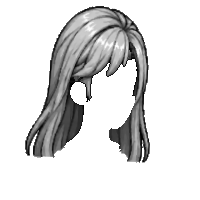
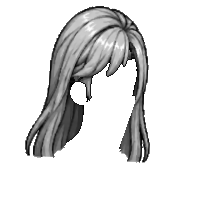
Portraits: finish step that blends the parts into one portrait
finish.py compose(): skin-coloured eye/mouth lines, warm eye whites with lid shadow, brow
underside, soft hair edge + hair shadow on skin, collar contact shadow, unified outer outline
with selective seams, shared colour grade. preview_finish.png shows before/after.
Assets: hair cut from the notch under the chin; leftover template outline strokes removed
from the chin/throat of all 12 outfit layers (clean_body_necks.py).

Claude-Session: https://claude.ai/code/session_01M8ejkLTav7LEMdtajuWjkN

Changed region(s): [[0.54, 0.54, 0.66, 0.72]]

diff --git a/art_source/new_art/portraits/finish.py b/art_source/new_art/portraits/finish.py
@@ -1,0 +1,151 @@
+"""Portrait finish step: put the layers together and blend them into one painted portrait.
+
+The parts are drawn separately (head, outfit, eyes, brows, mouth, hair), so stacked as-is they look pasted on.
+compose() stacks them in the game's order and, with finish=True, runs the passes below. Everything works on the
+layers' own value maps, so a shadow on skin is the same skin ramp one step darker (correct hue for every tone).
+The game will run the same passes once when a hero's portrait is built and cache the result.
+
+  1 lines   eye, lash and mouth lines take the skin's darkest shade instead of fixed near-black
+  2 whites  eye whites (and teeth) become a warm off-white from the skin ramp; 1-px shadow under the upper lid
+  3 brows   darker hair shade on the lower edge of thick brows
+  4 hair    hair edge on skin uses the hair's own dark shade; hair casts a 1-2 px shadow onto the skin
+  5 neck    contact shadow on the skin just above the collar / scarf / armour
+  6 outline one outer silhouette outline (dark version of the fill colour); seams where the outfit meets skin or
+            hair use a dark shade of the outfit's own colour instead of black
+  7 grade   shared light: soft warm light from the upper left, shadows pulled toward one cool hue
+"""
+import os, json, numpy as np
+from PIL import Image
+from scipy import ndimage as ndi
+
+HERE = os.path.dirname(os.path.abspath(__file__))
+ROOT = os.path.join(HERE, '..', '..', '..')
+PAL = json.load(open(os.path.join(ROOT, 'portraits', 'palettes.json')))
+LINE, WHITE = (30, 22, 26), (250, 248, 246)
+N4 = np.array([[0, 1, 0], [1, 1, 1], [0, 1, 0]], bool)
+
+
+def hx(q): return [int(q[i:i + 2], 16) for i in (1, 3, 5)]
+
+
+def ramp_rgb(ramp, v):
+    """Value map (0-255, any shape) -> RGB along the 5-colour ramp, same as the game's tint."""
+    rr = np.array([hx(q) for q in ramp], float); t = np.clip(v, 0, 255) / 255 * (len(rr) - 1)
+    lo = np.floor(t).astype(int).clip(0, len(rr) - 2); f = (t - lo)[..., None]
+    return rr[lo] * (1 - f) + rr[lo + 1] * f
+
+
+def load(name):
+    p = os.path.join(HERE, name)
+    return np.asarray(Image.open(p).convert('RGBA')).astype(float) if os.path.exists(p) else None
+
+
+def is_col(a, c, tol=3): return (np.abs(a[..., :3] - c).max(-1) <= tol) & (a[..., 3] > 0)
+
+
+def shift(m, dy, dx):
+    o = np.zeros_like(m)
+    ys, yd = (slice(0, 200 - dy), slice(dy, 200)) if dy >= 0 else (slice(-dy, 200), slice(0, 200 + dy))
+    xs, xd = (slice(0, 200 - dx), slice(dx, 200)) if dx >= 0 else (slice(-dx, 200), slice(0, 200 + dx))
+    o[yd, xd] = m[ys, xs]; return o
+
+
+def compose(sex, cls, skin, hair_ramp, eye_ramp, eyes, expr, hair, finish=True):
+    """skin/hair_ramp/eye_ramp: palette names. eyes/expr/hair: style ids. Returns a 200x200 RGBA uint8 array."""
+    S, Hr, E = PAL['skin'][skin], PAL['hair'][hair_ramp], PAL['eyes'][eye_ramp]
+    head, bskin, body = load(f'{sex}_head_skin.png'), load(f'{sex}_body_{cls}_skin.png'), load(f'{sex}_body_{cls}_fixed.png')
+    efix, iris = load(f'{sex}_eyes_{eyes}_fixed.png'), load(f'{sex}_eyes_{eyes}_iris.png')
+    brow, mouth, hl = load(f'{sex}_brows_{expr}.png'), load(f'{sex}_mouth_{expr}.png'), load(f'{sex}_hair_{hair}.png')
+
+    rgb = np.zeros((200, 200, 3)); A = np.zeros((200, 200), bool)
+    top = np.zeros((200, 200), 'U5')                       # which layer is on top: skin, body, eyes, iris, brow, mouth, hair
+    sv = np.zeros((200, 200))                               # skin value map under everything
+    bv = np.zeros((200, 200)); hv = np.zeros((200, 200))    # brow / hair value maps
+    def put(layer, colour, tag):
+        m = layer[..., 3] > 127
+        rgb[m] = colour[m]; A[m] = True; top[m] = tag
+        return m
+    for sk in (head, bskin):
+        if sk is not None:
+            m = put(sk, ramp_rgb(S, sk[..., 0]), 'skin'); sv[m] = sk[..., 0][m]
+    put(body, body[..., :3], 'body')
+    put(efix, efix[..., :3], 'eyes'); put(iris, ramp_rgb(E, iris[..., 0]), 'iris')
+    m = put(brow, ramp_rgb(Hr, brow[..., 0]), 'brow'); bv[m] = brow[..., 0][m]
+    put(mouth, mouth[..., :3], 'mouth')
+    m = put(hl, ramp_rgb(Hr, hl[..., 0]), 'hair'); hv[m] = hl[..., 0][m]
+    if not finish:
+        return np.dstack([rgb, A * 255]).astype(np.uint8)
+
+    skin_m, hair_m, body_m = top == 'skin', top == 'hair', top == 'body'
+    sk = lambda v: ramp_rgb(S, v)
+
+    # 1 lines -> darkest skin shade (a touch above the outline's own value so they still read on deep skin)
+    line_c = sk(np.full((1,), 14.0))[0]
+    for lay, tag in ((efix, 'eyes'), (mouth, 'mouth')):
+        m = is_col(lay, LINE, 12) & (top == tag); rgb[m] = line_c
+    # 2 whites -> warm off-white from the lightest skin colour; shadow under the upper lid
+    white_c = 0.78 * np.array([247, 244, 240.]) + 0.22 * np.array(hx(S[4]))
+    lid_c = 0.55 * white_c + 0.45 * np.array(hx(S[3]))
+    wm = is_col(efix, WHITE, 6) & (top == 'eyes'); rgb[wm] = white_c
+    lid = wm & shift(is_col(efix, LINE, 12), 1, 0); rgb[lid] = lid_c
+    tm = is_col(mouth, WHITE, 6) & (top == 'mouth'); rgb[tm] = white_c
+    # 3 brows: lower edge one hair shade darker where the brow is 2+ px thick
+    bm = top == 'brow'
+    low = bm & ~shift(bm, -1, 0) & shift(bm, 1, 0)
+    rgb[low] = ramp_rgb(Hr, bv[low] * 0.55)
+
+    # 4 hair on skin: edge in the hair's own dark shade; cast shadow (light from upper left) + contact shadow
+    near_skin = ndi.binary_dilation(skin_m, N4)
+    edge = hair_m & near_skin
+    rgb[edge] = ramp_rgb(Hr, np.maximum(hv[edge], 40))
+    cast = skin_m & (shift(hair_m, 1, 1) | shift(hair_m, 2, 1) | shift(hair_m, 2, 2))
+    touch = skin_m & ndi.binary_dilation(hair_m, N4)
+    # 5 neck: contact shadow on skin right above (and beside) the outfit
+    collar1 = skin_m & (shift(body_m, -1, 0) | ndi.binary_dilation(body_m, N4))
+    collar2 = skin_m & shift(body_m, -2, 0) & ~collar1
+    dark = np.zeros((200, 200))
+    dark[collar2] = 22; dark[collar1] = 40; dark[cast] = np.maximum(dark[cast], 34); dark[touch] = np.maximum(dark[touch], 44)
+    # keep the drawn outline pixels (already the darkest value) as they are
+    sh = skin_m & (dark > 0) & (sv > 60)
+    rgb[sh] = sk(np.maximum(sv[sh] - dark[sh], 45))
+
+    # 6 outline: seams of the outfit against skin / hair -> dark outfit colour; outer silhouette -> dark fill colour
+    lum = rgb @ [0.3, 0.59, 0.11]
+    body_fill = body_m & (lum > 70)
+    if body_fill.any():
+        idx = ndi.distance_transform_edt(~body_fill, return_distances=False, return_indices=True)
+        seam = body_m & (lum <= 70) & ndi.binary_dilation(skin_m | hair_m, N4)
+        rgb[seam] = rgb[idx[0][seam], idx[1][seam]] * 0.42
+    outer = A & ~ndi.binary_erosion(A, N4)
+    fill = A & ~outer & (lum > 70)
+    idx = ndi.distance_transform_edt(~fill, return_distances=False, return_indices=True)
+    rgb[outer] = rgb[idx[0][outer], idx[1][outer]] * 0.24 + np.array([18, 13, 24.]) * 0.6
+
+    # 7 grade: warm light from the upper left, shadows toward one cool hue
+    yy, xx = np.mgrid[:200, :200]
+    light = 1.04 - 0.08 * (xx + yy) / 300
+    lum = (rgb @ [0.3, 0.59, 0.11]) / 255
+    rgb = rgb * light[..., None]
+    rgb = rgb + ((1 - lum) ** 2 * 0.10)[..., None] * (np.array([58, 48, 92.]) - rgb)
+    rgb = rgb + (lum ** 2 * 0.07)[..., None] * (np.array([255, 238, 212.]) - rgb)
+    return np.dstack([np.clip(rgb, 0, 255) * A[..., None], A * 255]).astype(np.uint8)
+
+
+if __name__ == '__main__':
+    # before / after sheet: per class, male then female, unfinished and finished side by side
+    import random
+    rng = random.Random(11)
+    def styles(prefix, suffix='.png'):
+        return sorted(f[len(prefix):-len(suffix)] for f in os.listdir(HERE) if f.startswith(prefix) and f.endswith(suffix))
+    classes = ['soldier', 'archer', 'cleric', 'mage', 'warrior', 'rogue']
+    sheet = Image.new('RGBA', (200 * 6, 200 * 4), (52, 56, 66, 255))
+    for r, sex in enumerate('mf'):
+        for c, cls in enumerate(classes):
+            args = (sex, cls, rng.choice(list(PAL['skin'])), rng.choice(list(PAL['hair'])), rng.choice(list(PAL['eyes'])),
+                    rng.choice(styles(f'{sex}_eyes_', '_fixed.png')), rng.choice(['neutral', 'smile', 'stern', 'grin', 'sleepy', 'worried']),
+                    rng.choice(styles(f'{sex}_hair_')))
+            for k, fin in enumerate((False, True)):
+                im = Image.fromarray(compose(*args, finish=fin))
+                sheet.alpha_composite(im, (c * 200, (r * 2 + k) * 200))
+    sheet.save(os.path.join(HERE, 'preview_finish.png'))
+    print('preview_finish.png')

diff --git a/art_source/new_art/portraits/preview_full.py b/art_source/new_art/portraits/preview_full.py
@@ -1,35 +1,18 @@
-"""Assemble complete portraits from every new layer (head, body, eyes, brows, mouth, hair) with random looks.
+"""Assemble complete portraits from every new layer (head, body, eyes, brows, mouth, hair) with random looks,
+finished with finish.py (the blend pass the game runs when it builds a portrait).
 Layer order, back to front: head skin, body skin, body, eyes fixed, iris, brows, mouth, hair.
 Writes preview_full.png (2 rows: male, female; one column per class)."""
-import os, json, random, numpy as np
+import os, random
 from PIL import Image
-HERE = os.path.dirname(os.path.abspath(__file__)); ROOT = os.path.join(HERE, '..', '..', '..')
-pal = json.load(open(os.path.join(ROOT, 'portraits', 'palettes.json')))
-hx = lambda q: [int(q[i:i + 2], 16) for i in (1, 3, 5)]
-def tint(path, ramp):
-    img = np.asarray(Image.open(path).convert('RGBA'))
-    rr = np.array([hx(q) for q in ramp], float); t = img[..., 0] / 255 * (len(rr) - 1)
-    l = np.floor(t).astype(int).clip(0, len(rr) - 2); f = (t - l)[..., None]
-    return Image.fromarray(np.dstack([rr[l] * (1 - f) + rr[l + 1] * f, img[..., 3]]).astype(np.uint8))
+from finish import compose, PAL, HERE
 def styles(prefix, suffix='.png'):
     return sorted(f[len(prefix):-len(suffix)] for f in os.listdir(HERE) if f.startswith(prefix) and f.endswith(suffix))
 rng = random.Random(7)
-P = lambda n: os.path.join(HERE, n)
 sheet = Image.new('RGBA', (200 * 6, 400), (52, 56, 66, 255))
 for row, sex in enumerate('mf'):
     for col, cls in enumerate(['soldier', 'archer', 'cleric', 'mage', 'warrior', 'rogue']):
-        skin = rng.choice(list(pal['skin'].values())); hair = rng.choice(list(pal['hair'].values()))
-        eye = rng.choice(list(pal['eyes'].values()))
-        ey = rng.choice(styles(f'{sex}_eyes_', '_fixed.png')); hs = rng.choice(styles(f'{sex}_hair_'))
-        ex = rng.choice(['neutral', 'smile', 'stern', 'grin', 'sleepy', 'worried'])
-        c = Image.new('RGBA', (200, 200), (52, 56, 66, 255))
-        c.alpha_composite(tint(P(f'{sex}_head_skin.png'), skin))
-        if os.path.exists(P(f'{sex}_body_{cls}_skin.png')): c.alpha_composite(tint(P(f'{sex}_body_{cls}_skin.png'), skin))
-        c.alpha_composite(Image.open(P(f'{sex}_body_{cls}_fixed.png')).convert('RGBA'))
-        c.alpha_composite(Image.open(P(f'{sex}_eyes_{ey}_fixed.png')).convert('RGBA'))
-        c.alpha_composite(tint(P(f'{sex}_eyes_{ey}_iris.png'), eye))
-        c.alpha_composite(tint(P(f'{sex}_brows_{ex}.png'), hair))
-        c.alpha_composite(Image.open(P(f'{sex}_mouth_{ex}.png')).convert('RGBA'))
-        c.alpha_composite(tint(P(f'{sex}_hair_{hs}.png'), hair))
-        sheet.paste(c, (col * 200, row * 200))
-sheet.save(P('preview_full.png'))
+        im = compose(sex, cls, rng.choice(list(PAL['skin'])), rng.choice(list(PAL['hair'])), rng.choice(list(PAL['eyes'])),
+                     rng.choice(styles(f'{sex}_eyes_', '_fixed.png')),
+                     rng.choice(['neutral', 'smile', 'stern', 'grin', 'sleepy', 'worried']), rng.choice(styles(f'{sex}_hair_')))
+        sheet.alpha_composite(Image.fromarray(im), (col * 200, row * 200))
+sheet.save(os.path.join(HERE, 'preview_full.png'))

diff --git a/art_source/new_art/portraits/clean_body_necks.py b/art_source/new_art/portraits/clean_body_necks.py
@@ -1,0 +1,48 @@
+"""Remove leftover template-head outline strokes from the outfit layers (<sex>_body_<class>_fixed.png).
+
+The body sheets were drawn on a template that had a head; process_bodies.py removed most of its outline, but short
+dark strokes stayed on the chin / throat (they read as a goatee or a scratch on the neck). These PNGs also hold the
+user's Aseprite touch-ups, so this edits them in place instead of re-cutting the sheets.
+
+Rule, applied only inside the base head mask (face + neck): a dark pixel (outline colour) that touches bare skin and
+has no real outfit area (a lighter patch of 20+ px) in its 3x3 neighbourhood is a stroke, not the edge of a collar - it goes, repeatedly, so a stroke is eaten back
+to where it meets real outfit. Pure-green speckles (template background) inside the head go too. Idempotent.
+Usage: python3 clean_body_necks.py
+"""
+import os, glob, numpy as np
+from PIL import Image
+from scipy import ndimage as ndi
+
+HERE = os.path.dirname(os.path.abspath(__file__))
+
+
+def clean(path, B):
+    a = np.asarray(Image.open(path).convert('RGBA')).copy()
+    c = a[..., :3].astype(int); on = a[..., 3] > 0
+    dark = on & (c.max(2) < 62) & (c.max(2) - c.min(2) < 28)      # near-black neutral = the template's outline
+    green = on & (c[..., 1] - c[..., 0] > 60) & (c[..., 1] - c[..., 2] > 60)
+    gone = green & B
+    on = on & ~gone; dark &= ~gone
+    K = np.ones((3, 3), bool)
+    for _ in range(30):
+        fill = on & ~dark
+        lab, n = ndi.label(fill, K); sz = ndi.sum(fill, lab, range(1, n + 1))
+        fill = np.isin(lab, [i + 1 for i in range(n) if sz[i] >= 20])       # real outfit areas, not a stroke's grey
+        edge = ndi.binary_dilation(~on, K)                                   # strokes lie on bare skin
+        lonely = dark & B & edge & ~ndi.binary_dilation(fill, K)
+        if not lonely.any(): break
+        gone |= lonely; on &= ~lonely; dark &= ~lonely
+    # crumbs left inside the head: tiny pieces (<12 px) not connected to the main outfit
+    lab, n = ndi.label(on, np.ones((3, 3), bool)); sz = ndi.sum(on, lab, range(1, n + 1))
+    crumbs = np.isin(lab, [i + 1 for i in range(n) if sz[i] < 12]) & B
+    gone |= crumbs
+    a[gone] = 0
+    Image.fromarray(a).save(path)
+    return int(gone.sum())
+
+
+if __name__ == '__main__':
+    for sex in 'mf':
+        B = np.asarray(Image.open(os.path.join(HERE, f'{sex}_head_skin.png')))[..., 3] > 0
+        for p in sorted(glob.glob(os.path.join(HERE, f'{sex}_body_*_fixed.png'))):
+            print(os.path.basename(p), clean(p, B), 'px removed')

diff --git a/art_source/new_art/portraits/process_hair.py b/art_source/new_art/portraits/process_hair.py
@@ -107,7 +107,11 @@ def attach(img, B, mann, ear_poly, style, sex):
     # jaw: the base head's lower face / chin / throat stays in front of the hair
     yy, xx = np.mgrid[:200, :200]
     jaw_box = (xx >= JAW['x0']) & (yy >= JAW['y0'])
-    jaw = hair & B & jaw_box
+    # ...including the notch under the chin (convex hull of the head there), so no strand reads as a goatee
+    import cv2
+    pts = np.argwhere(B & jaw_box)[:, ::-1].astype(np.int32)
+    hull = np.zeros((200, 200), np.uint8); cv2.fillConvexPoly(hull, cv2.convexHull(pts), 1)
+    jaw = hair & (B | hull.astype(bool)) & jaw_box
     if jaw.any():
         hair = hair & ~jaw
         lab, n = ndi.label(hair); sz = ndi.sum(hair, lab, range(1, n + 1))

diff --git a/art_source/new_art/portraits/process_bodies.py b/art_source/new_art/portraits/process_bodies.py
@@ -157,4 +157,9 @@ def main(sex):
 
 
 if __name__ == '__main__':
-    main(sys.argv[1] if len(sys.argv) > 1 else 'm')
+    sex = sys.argv[1] if len(sys.argv) > 1 else 'm'
+    main(sex)
+    # strip the template head's leftover outline strokes from the chin / throat (see clean_body_necks.py)
+    import glob, clean_body_necks as cbn
+    B = np.asarray(Image.open(os.path.join(HERE, f'{sex}_head_skin.png')))[..., 3] > 0
+    for p in sorted(glob.glob(os.path.join(HERE, f'{sex}_body_*_fixed.png'))): cbn.clean(p, B)

diff --git a/docs/design-decisions.md b/docs/design-decisions.md
@@ -116,6 +116,7 @@ Findings from simulation (500 fights per setup, placeholder numbers):
 - **Class outfits (portrait busts)** for all six classes, both sexes (2026-11-19): drawn by ChatGPT under the base head on `templates/body_template_<m|f>.png`, bare skin in cyan; cut by `process_bodies.py` into `<sex>_body_<id>_fixed.png` + `_skin.png` (Warrior arms, female Rogue neckline). Warrior = fur mantle, scale shirt, leather harness with iron rings, bare upper arms. New layer order: head skin → body skin → body → eyes → hair (collar over the lower neck). First full portraits assembled in `preview_portraits.png`.
 - **Aseprite editing (2026-11-19):** `art_source/new_art/portraits/aseprite/` has `build_portrait_parts.lua` / `export_portrait_parts.lua` (one .aseprite per sex for hair, eyes, bodies; tagged frame per style; export writes the PNG layers back). Installed on the user's PC: PNGs in `Documents\BraveUnknownArt\portraits\`, launchers "Brave Unknown - build/export portrait parts" in Aseprite's scripts folder. Workflow: user edits and exports on the PC, Claude collects the PNGs and pushes them.
 - **Eyebrows done (2026-11-19):** 6 expressions per sex (neutral, smile, stern, grin, sleepy, worried), separate from mouths so any pair can combine. `<sex>_brows_<expr>.png`, gray, tinted by the **hair** ramp (fixes the old brows-follow-skin flaw). **Mouths done** (same 6 expressions, fixed colours). **The new portrait art set is complete (2026-11-19):** head, 6 outfits, 12 eye pairs, 6 brows, 6 mouths, 12 hairstyles per sex; full layer order head skin → body skin → body → eyes → iris → brows → mouth → hair; `preview_full.png`. Next: wire it into the game (`library.json`/`HeroPortrait` need the new layers and names), then battle sprites in the new style.
+- **Portrait finish step (2026-11-19, user approved all 8 fixes):** stacked parts looked pasted on, so portraits are now built by `finish.py` `compose()`: (1) eye/mouth lines take the skin ramp's darkest shade; (2) eye whites and teeth become a warm off-white from the skin ramp, 1-px shadow under the upper lid; (3) thick brows get a darker hair shade on the lower edge; (4) hair edge on skin uses the hair's own dark shade, and hair casts a 1-2 px shadow onto the skin (light from the upper left); (5) contact shadow on skin just above the collar; (6) one outer outline = dark version of the fill colour, and outfit seams against skin/hair use a dark shade of the outfit colour instead of black; (7) shared colour grade (warm light upper left, shadows toward one cool hue). Shadows move down the skin ramp, so the hue is right for every tone. Asset fixes baked in: (8) hair is cut from the jaw, chin, throat and the notch under the chin (no goatee-looking strands; `process_hair.py` box `JAW`); leftover template outline strokes on the chin/throat removed from the 12 outfit layers (`clean_body_necks.py`, also run by `process_bodies.py`). **Game rule:** `HeroPortrait` must run the same passes once when a hero's portrait is built and cache the texture (port `compose()` to GDScript when wiring the new art).
 - ChatGPT's earlier head layers (step 1/2, corrupted files and wrong head angle) were deleted at the user's request.
 - **Female hairstyles (12)**, same process: long, ponytail, bob, braids, wavy, pixie, bun (existing names) + crown_braid, side_braid, twin_buns, curly_mane, warrior_halfup (new).
 - Hair fixes requested by the user (2026-11-18): each style is re-cut around the base head's own ear (ear in front unless the style covers it), outlined where hair meets skin, and bald scalp above the hairline is filled with hair (male: all except messy, braided_mohawk, wild_mane; female: all).

diff --git a/art_source/new_art/README.md b/art_source/new_art/README.md
@@ -64,3 +64,14 @@
 Not yet in the game: all portrait layers exist now, but the game's `library.json` and `HeroPortrait` still use the
 legacy parts. Switching needs the new layer names and order (separate eyes, brows tinted by hair, mouths, 6
 expressions, 12 hairstyles per sex, new head placement).
+
+## Finish step (portrait blend pass)
+`portraits/finish.py` - `compose(sex, cls, skin, hair_ramp, eye_ramp, eyes, expr, hair, finish=True)` stacks the layers
+in game order and blends them into one portrait: skin-coloured eye/mouth lines, warm eye whites with a lid shadow,
+shaded brow underside, soft hair edge + hair shadow on skin, collar contact shadow, one outer outline with selective
+(dark own-colour) seams, and a shared colour grade. `python3 finish.py` writes `preview_finish.png` (rows: male
+plain, male finished, female plain, female finished). `preview_full.py` uses the finished version. The game must run
+the same passes when it builds a hero portrait (port to GDScript with the layer wiring).
+`clean_body_necks.py` removes leftover template outline strokes from the chin/throat of the outfit layers (idempotent;
+`process_bodies.py` runs it after cutting).
+
